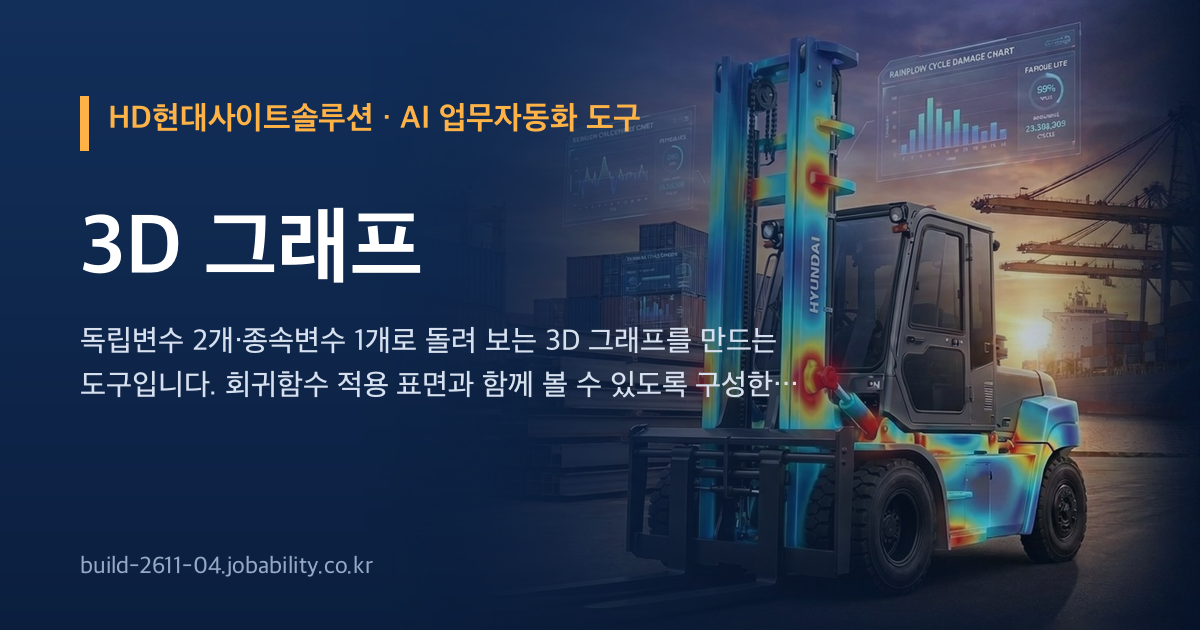
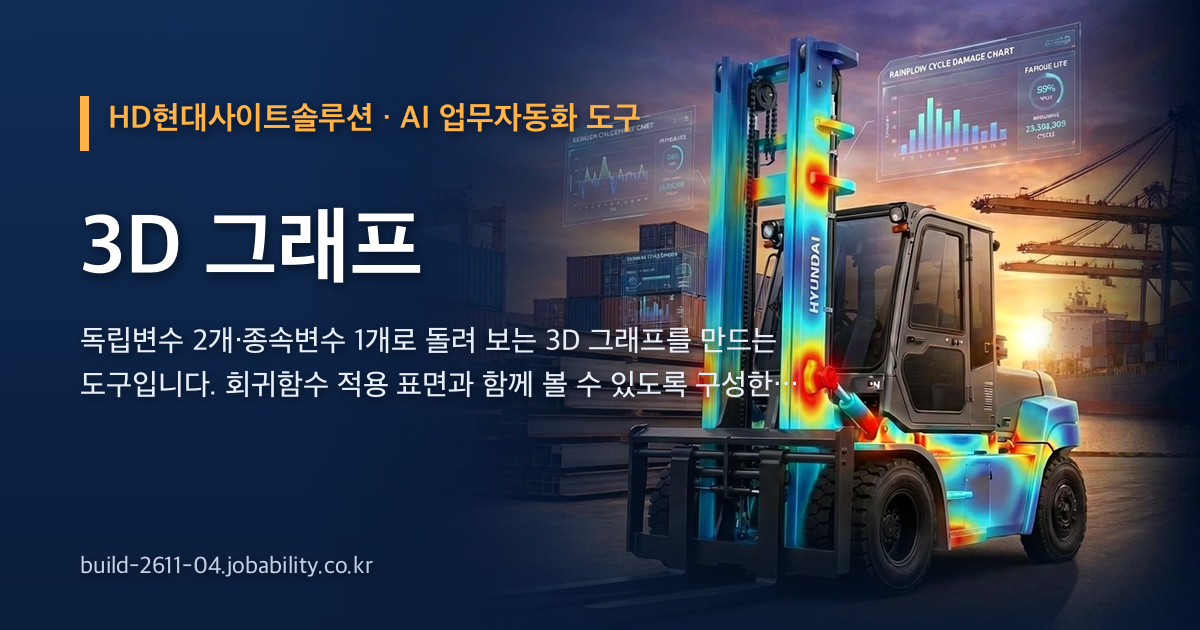
공유 그림 다시(사진 또렷하게) · 판 2026-11-13.12

diff --git a/surface.html b/surface.html
@@ -12,8 +12,8 @@
 <meta property="og:title" content="3D 그래프 작업실 — 삼각망 · 회귀 곡면 · 예측">
 <meta property="og:description" content="엑셀에서 복사한 표(독립변수 2개 · 종속변수 1개)를 붙여 넣으면 측정점 삼각망 면, 2차 회귀 곡면과 측정점, 회귀 곡면 위 예측점을 창 여러 개로 함께 보고 돌립니다. 뷰 동기화와 뷰 큐브 면 정렬.">
 <meta property="og:url" content="https://build-2611-04.jobability.co.kr/surface.html">
-<meta property="og:image" content="https://build-2611-04.jobability.co.kr/og-image.png">
-<meta property="og:image:secure_url" content="https://build-2611-04.jobability.co.kr/og-image.png">
+<meta property="og:image" content="https://build-2611-04.jobability.co.kr/og-image.png?v=2">
+<meta property="og:image:secure_url" content="https://build-2611-04.jobability.co.kr/og-image.png?v=2">
 <meta property="og:image:type" content="image/png">
 <meta property="og:image:width" content="1200">
 <meta property="og:image:height" content="630">
@@ -22,7 +22,7 @@
 <meta name="twitter:card" content="summary_large_image">
 <meta name="twitter:title" content="3D 그래프 작업실 — 삼각망 · 회귀 곡면 · 예측">
 <meta name="twitter:description" content="엑셀에서 복사한 표(독립변수 2개 · 종속변수 1개)를 붙여 넣으면 측정점 삼각망 면, 2차 회귀 곡면과 측정점, 회귀 곡면 위 예측점을 창 여러 개로 함께 보고 돌립니다. 뷰 동기화와 뷰 큐브 면 정렬.">
-<meta name="twitter:image" content="https://build-2611-04.jobability.co.kr/og-image.png">
+<meta name="twitter:image" content="https://build-2611-04.jobability.co.kr/og-image.png?v=2">
 <!-- /seo-kit -->
 <meta name="description" content="엑셀에서 복사한 표(독립변수 2개 · 종속변수 1개)를 붙여 넣으면 측정점 삼각망 면, 2차 회귀 곡면과 측정점, 회귀 곡면 위 예측점을 창 여러 개로 함께 보고 돌립니다. 뷰 동기화와 뷰 큐브 면 정렬.">
 <link rel="icon" href="favicon.svg" type="image/svg+xml">
@@ -30,9 +30,9 @@
 <link rel="stylesheet" href="css/app.css">
 <!-- auth-kit: 로그인 전에는 도구 화면을 감춘다(js/auth.js 가 판정 뒤 푼다) -->
 <script>document.documentElement.classList.add('auth-lock')</script>
-<link rel="stylesheet" href="css/auth.css?v=2026-11-13.11">
-<link rel="stylesheet" href="css/board.css?v=2026-11-13.11">
-<link rel="stylesheet" href="css/kit-build.css?v=2026-11-13.11">
+<link rel="stylesheet" href="css/auth.css?v=2026-11-13.12">
+<link rel="stylesheet" href="css/board.css?v=2026-11-13.12">
+<link rel="stylesheet" href="css/kit-build.css?v=2026-11-13.12">
 <!-- /auth-kit -->
 </head>
 <body>
@@ -122,11 +122,11 @@
 <script src="js/engine.js"></script>
 <script src="js/surface.js"></script>
 <!-- auth-kit: 로그인 · 사용 신청 · 승인 · 게시판(키트 정본 data10-00/kit/auth, 적용 build-2611-00/tools/kit) -->
-<script src="vendor/supabase.js?v=2026-11-13.11"></script>
-<script src="js/auth-config.js?v=2026-11-13.11"></script>
-<script src="js/kit-build.js?v=2026-11-13.11"></script>
-<script src="js/board.js?v=2026-11-13.11"></script>
-<script src="js/auth.js?v=2026-11-13.11"></script>
+<script src="vendor/supabase.js?v=2026-11-13.12"></script>
+<script src="js/auth-config.js?v=2026-11-13.12"></script>
+<script src="js/kit-build.js?v=2026-11-13.12"></script>
+<script src="js/board.js?v=2026-11-13.12"></script>
+<script src="js/auth.js?v=2026-11-13.12"></script>
 <!-- /auth-kit -->
 </body>
 </html>

diff --git a/index.html b/index.html
@@ -12,8 +12,8 @@
 <meta property="og:title" content="HD현대사이트솔루션 · 3D 그래프">
 <meta property="og:description" content="독립변수 2개·종속변수 1개로 돌려 보는 3D 그래프를 만드는 도구입니다. 회귀함수 적용 표면과 함께 볼 수 있도록 구성한 그래프입니다.">
 <meta property="og:url" content="https://build-2611-04.jobability.co.kr/">
-<meta property="og:image" content="https://build-2611-04.jobability.co.kr/og-image.png">
-<meta property="og:image:secure_url" content="https://build-2611-04.jobability.co.kr/og-image.png">
+<meta property="og:image" content="https://build-2611-04.jobability.co.kr/og-image.png?v=2">
+<meta property="og:image:secure_url" content="https://build-2611-04.jobability.co.kr/og-image.png?v=2">
 <meta property="og:image:type" content="image/png">
 <meta property="og:image:width" content="1200">
 <meta property="og:image:height" content="630">
@@ -22,7 +22,7 @@
 <meta name="twitter:card" content="summary_large_image">
 <meta name="twitter:title" content="HD현대사이트솔루션 · 3D 그래프">
 <meta name="twitter:description" content="독립변수 2개·종속변수 1개로 돌려 보는 3D 그래프를 만드는 도구입니다. 회귀함수 적용 표면과 함께 볼 수 있도록 구성한 그래프입니다.">
-<meta name="twitter:image" content="https://build-2611-04.jobability.co.kr/og-image.png">
+<meta name="twitter:image" content="https://build-2611-04.jobability.co.kr/og-image.png?v=2">
 <!-- /seo-kit -->
 <meta name="description" content="독립변수 2개·종속변수 1개로 돌려 보는 3D 그래프를 만드는 도구입니다. 회귀함수 적용 표면과 함께 볼 수 있도록 구성한 그래프입니다.">
 <link rel="icon" href="favicon.svg" type="image/svg+xml">
@@ -30,9 +30,9 @@
 <link rel="stylesheet" href="css/app.css">
 <!-- auth-kit: 로그인 전에는 도구 화면을 감춘다(js/auth.js 가 판정 뒤 푼다) -->
 <script>document.documentElement.classList.add('auth-lock')</script>
-<link rel="stylesheet" href="css/auth.css?v=2026-11-13.11">
-<link rel="stylesheet" href="css/board.css?v=2026-11-13.11">
-<link rel="stylesheet" href="css/kit-build.css?v=2026-11-13.11">
+<link rel="stylesheet" href="css/auth.css?v=2026-11-13.12">
+<link rel="stylesheet" href="css/board.css?v=2026-11-13.12">
+<link rel="stylesheet" href="css/kit-build.css?v=2026-11-13.12">
 <!-- /auth-kit -->
 </head>
 <body>
@@ -179,11 +179,11 @@
 <script src="js/engine.js"></script>
 <script src="js/app.js"></script>
 <!-- auth-kit: 로그인 · 사용 신청 · 승인 · 게시판(키트 정본 data10-00/kit/auth, 적용 build-2611-00/tools/kit) -->
-<script src="vendor/supabase.js?v=2026-11-13.11"></script>
-<script src="js/auth-config.js?v=2026-11-13.11"></script>
-<script src="js/kit-build.js?v=2026-11-13.11"></script>
-<script src="js/board.js?v=2026-11-13.11"></script>
-<script src="js/auth.js?v=2026-11-13.11"></script>
+<script src="vendor/supabase.js?v=2026-11-13.12"></script>
+<script src="js/auth-config.js?v=2026-11-13.12"></script>
+<script src="js/kit-build.js?v=2026-11-13.12"></script>
+<script src="js/board.js?v=2026-11-13.12"></script>
+<script src="js/auth.js?v=2026-11-13.12"></script>
 <!-- /auth-kit -->
 </body>
 </html>

diff --git a/guide.html b/guide.html
@@ -12,8 +12,8 @@
 <meta property="og:title" content="사용법 — 계측 데이터 처리 · 3D 그래프">
 <meta property="og:description" content="샘플링 주기·시작 시각·시간 형식이 다른 계측기 CSV·엑셀을 한 시간축으로 맞추고(시작 시각 + 교차상관 지연 추정 + 선형 보간 리샘플), 전처리·이상치 표시·엑셀 내보내기와 독립변수 2개·종속변수 1개로 돌려 보는 3D 그래프를 만드는 도구입니다.">
 <meta property="og:url" content="https://build-2611-04.jobability.co.kr/guide.html">
-<meta property="og:image" content="https://build-2611-04.jobability.co.kr/og-image.png">
-<meta property="og:image:secure_url" content="https://build-2611-04.jobability.co.kr/og-image.png">
+<meta property="og:image" content="https://build-2611-04.jobability.co.kr/og-image.png?v=2">
+<meta property="og:image:secure_url" content="https://build-2611-04.jobability.co.kr/og-image.png?v=2">
 <meta property="og:image:type" content="image/png">
 <meta property="og:image:width" content="1200">
 <meta property="og:image:height" content="630">
@@ -22,7 +22,7 @@
 <meta name="twitter:card" content="summary_large_image">
 <meta name="twitter:title" content="사용법 — 계측 데이터 처리 · 3D 그래프">
 <meta name="twitter:description" content="샘플링 주기·시작 시각·시간 형식이 다른 계측기 CSV·엑셀을 한 시간축으로 맞추고(시작 시각 + 교차상관 지연 추정 + 선형 보간 리샘플), 전처리·이상치 표시·엑셀 내보내기와 독립변수 2개·종속변수 1개로 돌려 보는 3D 그래프를 만드는 도구입니다.">
-<meta name="twitter:image" content="https://build-2611-04.jobability.co.kr/og-image.png">
+<meta name="twitter:image" content="https://build-2611-04.jobability.co.kr/og-image.png?v=2">
 <!-- /seo-kit -->
 <link rel="icon" href="favicon.svg" type="image/svg+xml">
 <link rel="stylesheet" href="css/style.css">

diff --git a/plan.html b/plan.html
@@ -12,8 +12,8 @@
 <meta property="og:title" content="기획서 — 계측 데이터 처리 · 3D 그래프">
 <meta property="og:description" content="샘플링 주기·시작 시각·시간 형식이 다른 계측기 CSV·엑셀을 한 시간축으로 맞추고(시작 시각 + 교차상관 지연 추정 + 선형 보간 리샘플), 전처리·이상치 표시·엑셀 내보내기와 독립변수 2개·종속변수 1개로 돌려 보는 3D 그래프를 만드는 도구입니다.">
 <meta property="og:url" content="https://build-2611-04.jobability.co.kr/plan.html">
-<meta property="og:image" content="https://build-2611-04.jobability.co.kr/og-image.png">
-<meta property="og:image:secure_url" content="https://build-2611-04.jobability.co.kr/og-image.png">
+<meta property="og:image" content="https://build-2611-04.jobability.co.kr/og-image.png?v=2">
+<meta property="og:image:secure_url" content="https://build-2611-04.jobability.co.kr/og-image.png?v=2">
 <meta property="og:image:type" content="image/png">
 <meta property="og:image:width" content="1200">
 <meta property="og:image:height" content="630">
@@ -22,7 +22,7 @@
 <meta name="twitter:card" content="summary_large_image">
 <meta name="twitter:title" content="기획서 — 계측 데이터 처리 · 3D 그래프">
 <meta name="twitter:description" content="샘플링 주기·시작 시각·시간 형식이 다른 계측기 CSV·엑셀을 한 시간축으로 맞추고(시작 시각 + 교차상관 지연 추정 + 선형 보간 리샘플), 전처리·이상치 표시·엑셀 내보내기와 독립변수 2개·종속변수 1개로 돌려 보는 3D 그래프를 만드는 도구입니다.">
-<meta name="twitter:image" content="https://build-2611-04.jobability.co.kr/og-image.png">
+<meta name="twitter:image" content="https://build-2611-04.jobability.co.kr/og-image.png?v=2">
 <!-- /seo-kit -->
 <link rel="icon" href="favicon.svg" type="image/svg+xml">
 <link rel="stylesheet" href="css/style.css">

diff --git a/report.html b/report.html
@@ -12,8 +12,8 @@
 <meta property="og:title" content="평가보고서 — 계측 데이터 처리 · 3D 그래프">
 <meta property="og:description" content="계측 데이터 처리 · 3D 그래프 점검 · 평가보고서(2026-11-13) — 사이트 점검, 기능과 시험, 인계 준비, 판 이력, 한계.">
 <meta property="og:url" content="https://build-2611-04.jobability.co.kr/report.html">
-<meta property="og:image" content="https://build-2611-04.jobability.co.kr/og-image.png">
-<meta property="og:image:secure_url" content="https://build-2611-04.jobability.co.kr/og-image.png">
+<meta property="og:image" content="https://build-2611-04.jobability.co.kr/og-image.png?v=2">
+<meta property="og:image:secure_url" content="https://build-2611-04.jobability.co.kr/og-image.png?v=2">
 <meta property="og:image:type" content="image/png">
 <meta property="og:image:width" content="1200">
 <meta property="og:image:height" content="630">
@@ -22,7 +22,7 @@
 <meta name="twitter:card" content="summary_large_image">
 <meta name="twitter:title" content="평가보고서 — 계측 데이터 처리 · 3D 그래프">
 <meta name="twitter:description" content="계측 데이터 처리 · 3D 그래프 점검 · 평가보고서(2026-11-13) — 사이트 점검, 기능과 시험, 인계 준비, 판 이력, 한계.">
-<meta name="twitter:image" content="https://build-2611-04.jobability.co.kr/og-image.png">
+<meta name="twitter:image" content="https://build-2611-04.jobability.co.kr/og-image.png?v=2">
 <!-- /seo-kit -->
 <meta name="description" content="계측 데이터 처리 · 3D 그래프 점검 · 평가보고서(2026-11-13) — 사이트 점검, 기능과 시험, 인계 준비, 판 이력, 한계.">
 <link rel="icon" href="favicon.svg" type="image/svg+xml">
